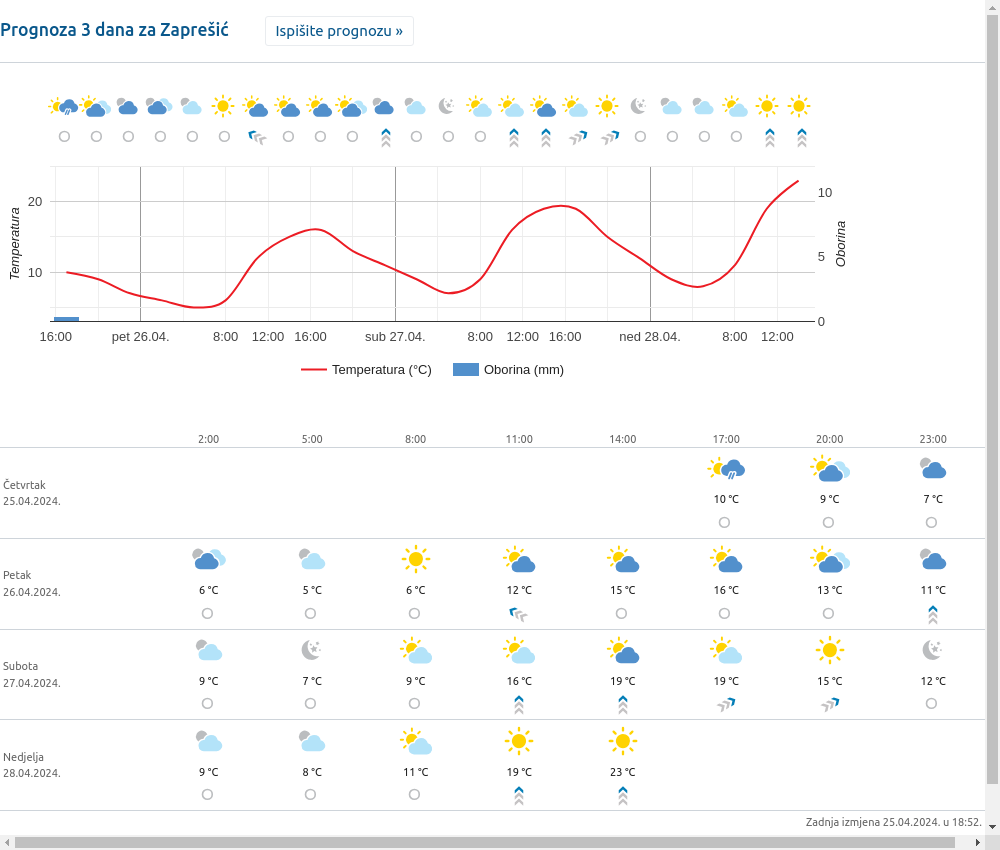
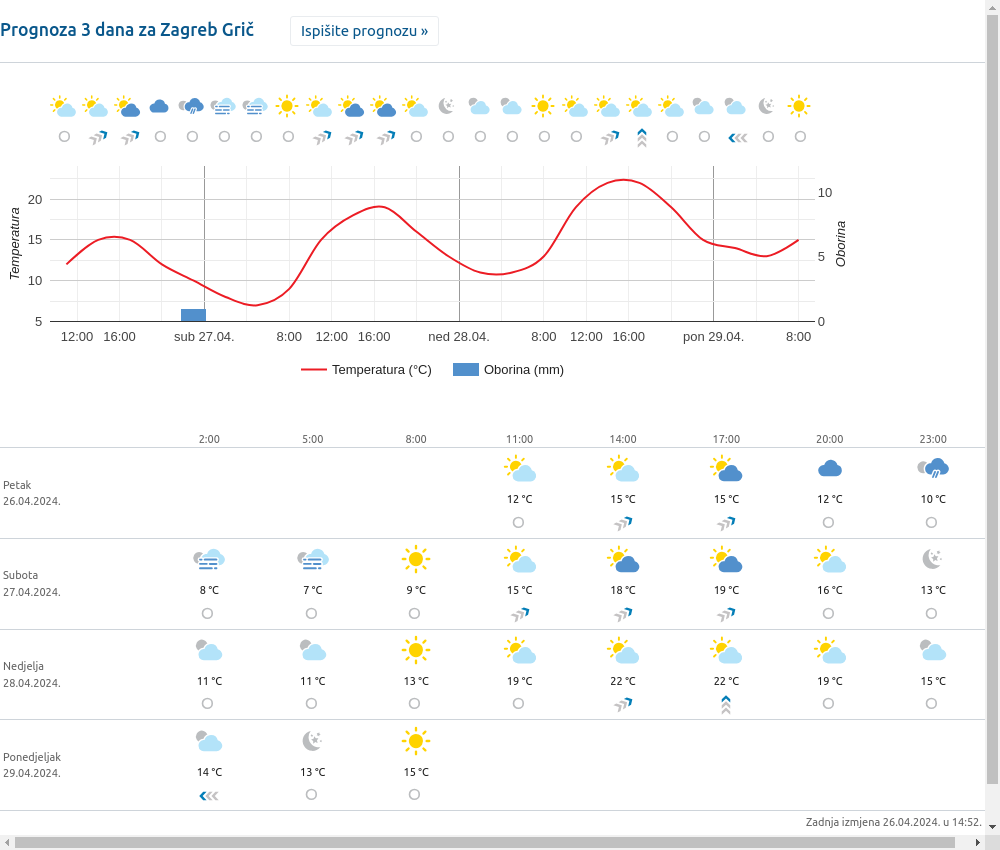
different city codes

diff --git a/commands.py b/commands.py
@@ -1,13 +1,22 @@
 from   telegram.ext import *
 import telegram
 from   telegram import Update
-import screenshot
+import json
 
 import file_utils
+import screenshot
 
 file = open('data/help', 'r')
 help_text = "".join(i for i in file.readlines())
 file.close()
+
+def map_city_code(city_name : str):
+    json_file = open("./data/city_codes", "r")
+    city_codes = json.load(json_file)
+    json_file.close()
+    if(city_name not in city_codes):
+        return "error"
+    return city_codes[city_name]
 
 async def help(update: Update, context: ContextTypes.DEFAULT_TYPE):
     await context.bot.send_message(chat_id=update.effective_chat.id, text=help_text)
@@ -27,7 +36,16 @@ async def list(update: Update, context: ContextTypes.DEFAULT_TYPE):
     await context.bot.send_message(chat_id=update.effective_chat.id, text="list")
     
 async def dhmz(update: Update, context: ContextTypes.DEFAULT_TYPE):
-    screenshot.get()
-    await context.bot.send_photo(chat_id=update.effective_chat.id, photo=open('screenshot.png', 'rb'))
-    
+    poruka = update.message.text[5:].strip()
+    city_name = poruka if poruka != "" else "Zagreb Gric" 
+    try:
+        city_code = map_city_code(city_name.strip())
+        if(city_code=="error"):
+            await context.bot.send_message(chat_id=update.effective_chat.id, text="Pogresan kod grada.")
+            return
+        screenshot.get(city_code)
+        await context.bot.send_photo(chat_id=update.effective_chat.id, photo=open('screenshot.png', 'rb'))
+    except:
+        await context.bot.send_message(chat_id=update.effective_chat.id, text="Neuspjelo dohvaćanje prognoze.")
+        
    

diff --git a/screenshot.py b/screenshot.py
@@ -2,7 +2,7 @@ from selenium import webdriver
 import webbrowser #only to show a picture
 import time
 
-def get():
+def get(city_code):
     # options
     options = webdriver.ChromeOptions()
     options.add_argument('--headless')
@@ -14,7 +14,7 @@ def get():
     driver.set_window_size(1000, 850)
 
     #choose your city
-    driver.get('https://prognoza.hr/3dslika2_print_tp.php?Code=Zapresic') 
+    driver.get('https://prognoza.hr/3dslika2_print_tp.php?Code='+city_code) 
 
     driver.save_screenshot('screenshot.png')
 

diff --git a/dhmz_telbot.py b/dhmz_telbot.py
@@ -37,7 +37,7 @@ def main():
 	bot.add_handler(CommandHandler('start',  check(commands.start)))
 	bot.add_handler(CommandHandler('stop',   check(commands.stop)))
 	bot.add_handler(CommandHandler('list',   check(commands.list)))
-	bot.add_handler(CommandHandler('dhmz',    check(commands.dhmz)))#, pass_args=True))
+	bot.add_handler(CommandHandler('dhmz',    check(commands.dhmz)))
 
 	bot.run_polling()
 
